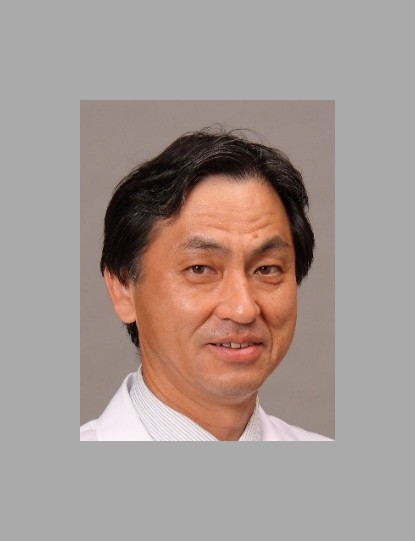
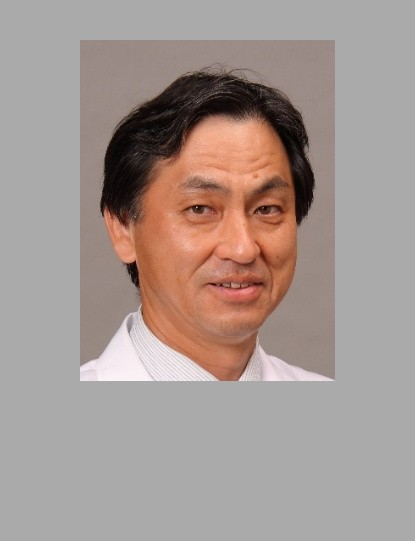
上田晃一先生の写真：顔を上に調整（v6）

diff --git a/index.html b/index.html
@@ -917,7 +917,7 @@ body.high-contrast{filter:contrast(1.55) brightness(0.95)}
       </div>
 
       <div class="spk-card" onclick="openSpk('ueda_k')">
-        <img class="spk-photo" src="speaker-ueda-k.jpg?v=5" alt="上田晃一先生" loading="lazy">
+        <img class="spk-photo" src="speaker-ueda-k.jpg?v=6" alt="上田晃一先生" loading="lazy">
         <div class="spk-body">
           <span class="spk-day d2">8/2 Part 2</span>
           <div class="spk-dept">🏥 形成外科</div>
